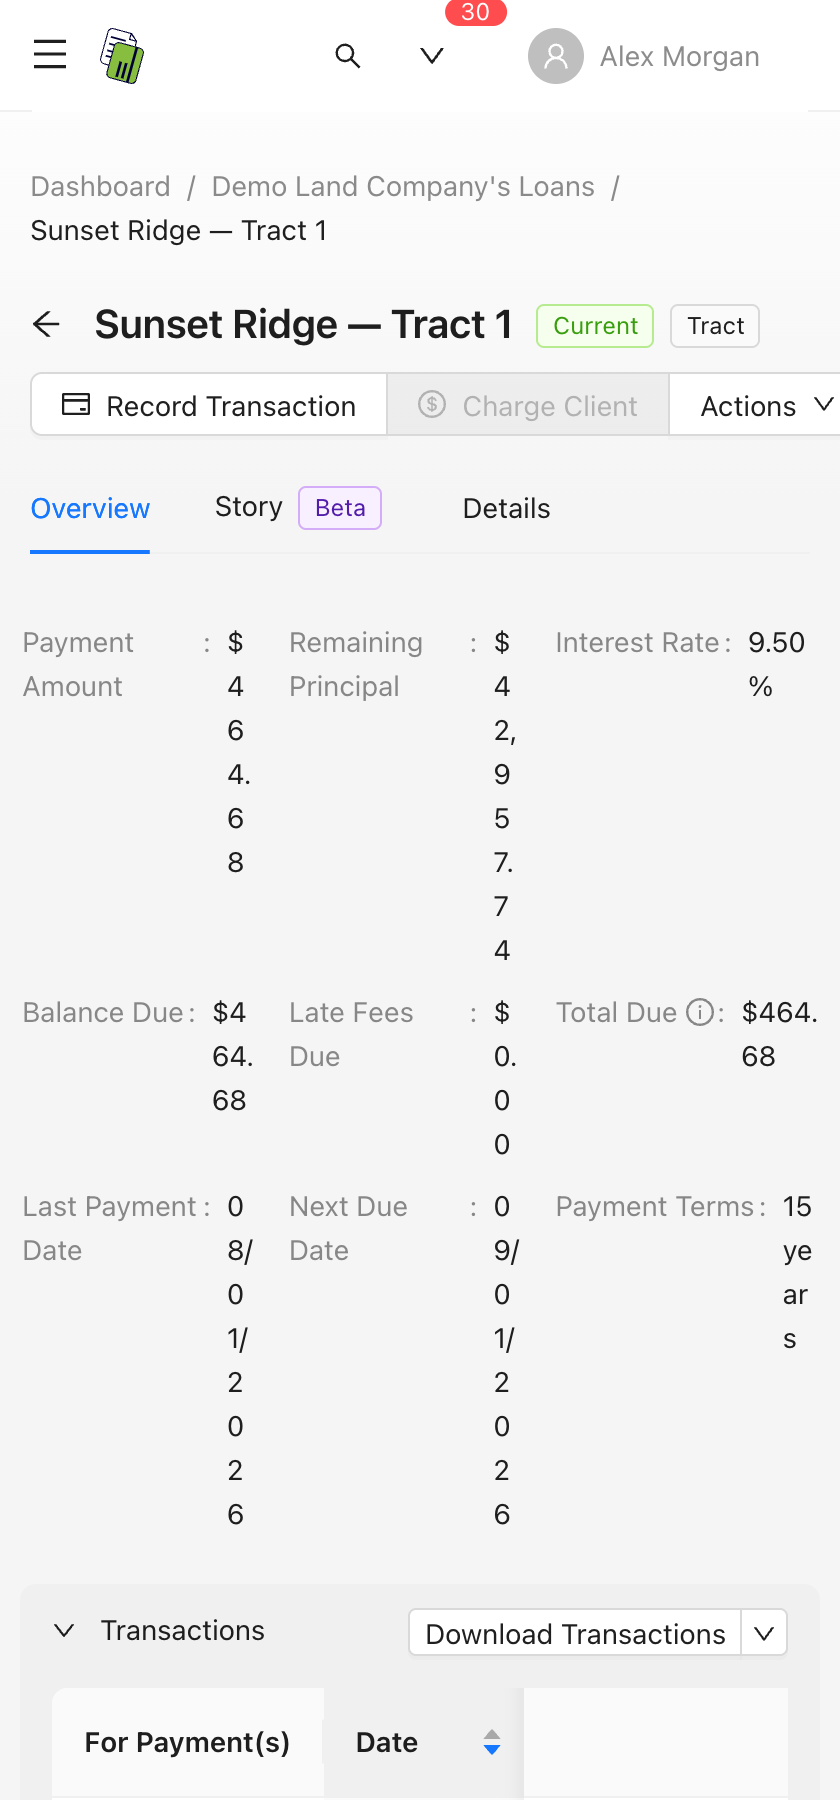
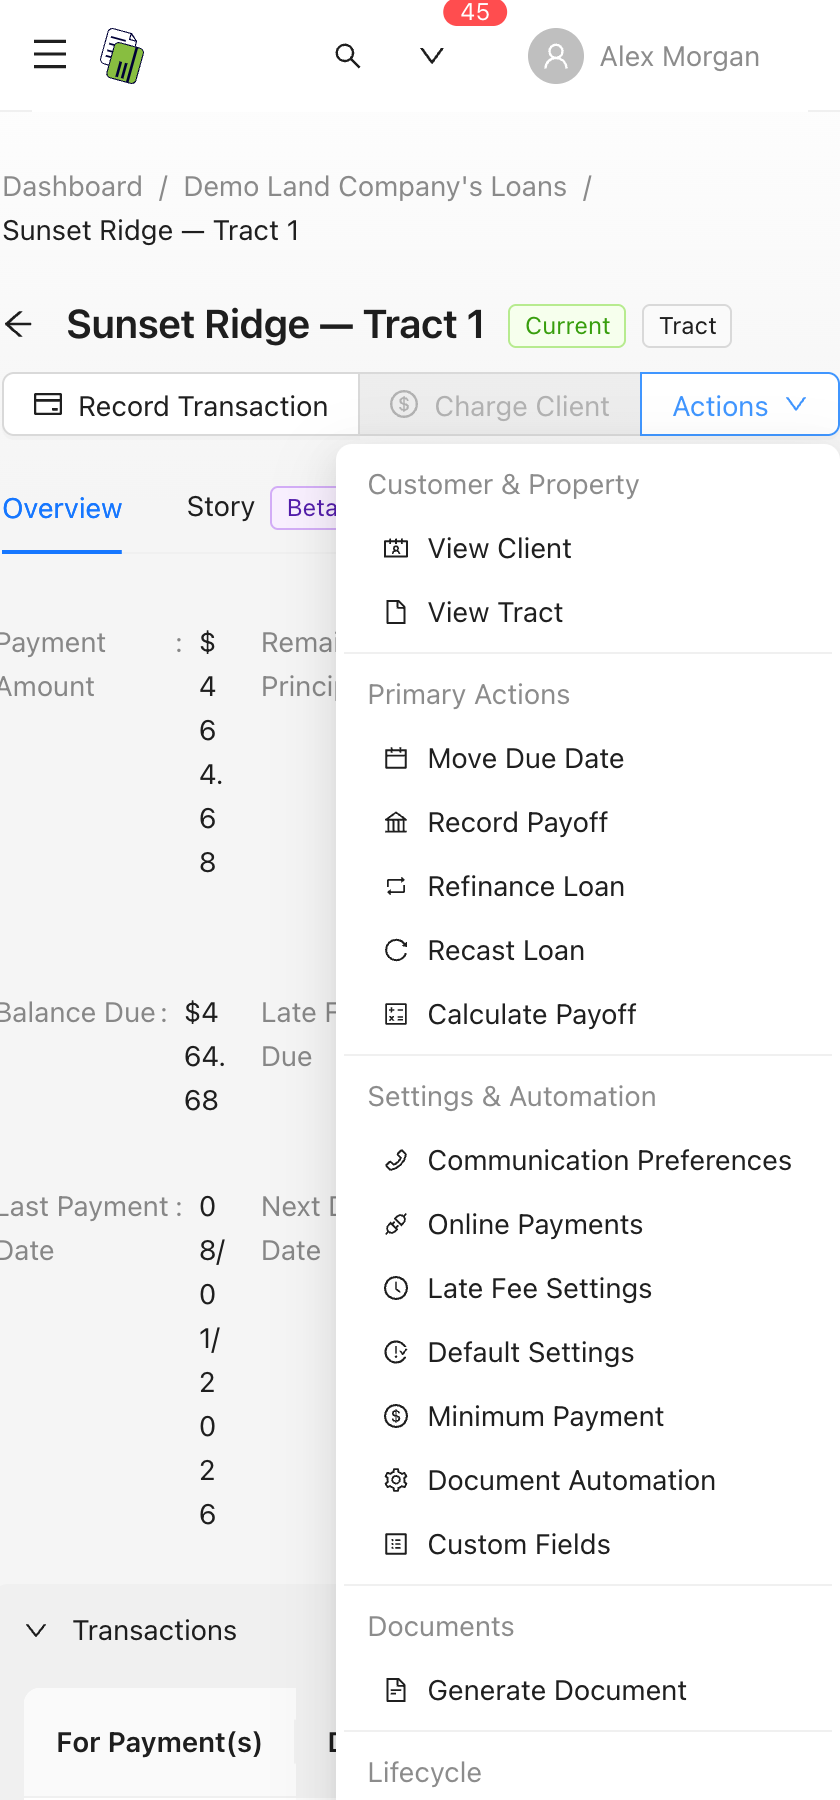
docs: capture unapplied payments, reports and delivery history
Adds the unapplied payments list, the reports library, the scheduled report
delivery history, and a loan page at phone width with its Actions menu open.

diff --git a/docs/app/guides/year-end-close.md b/docs/app/guides/year-end-close.md
@@ -52,7 +52,7 @@ Open **Unapplied Payments** from the main menu and work through anything still h
 
 When you apply a credit, you choose the date of the new transaction it funds, and that date decides which tax year the interest lands in. The date cannot be earlier than the day the funds were received. A single credit can fund several transactions, so a large one can be split across more than one payment.
 
-<!-- screenshot: the Unapplied Payments list showing several credits with their user-facing IDs, source loans, amounts, remaining balances, and a mix of Available and Partially Applied status tags -->
+![The Unapplied Payments list, showing each credit with its source, amount and remaining balance](/img/docs/app/guides/year-end-close/02.png)
 
 ### Finish reversals before the year closes
 
@@ -96,7 +96,7 @@ Go to **Reports**. Pick a report, choose **Run**, select the year, and the finis
 
 Two more are marked Beta and may change: the **Monthly Journal Entry Report** (monthly interest, principal, and late fee totals) and the **Portfolio Report** (current status of all tracts).
 
-<!-- screenshot: the Reports page on the Reports tab, table listing report names with descriptions, Last Ran At dates, and the actions menu open showing Run and Download -->
+![The Reports page, listing each report with its description and when it last ran](/img/docs/app/guides/year-end-close/03.png)
 
 The **Yearly 1098 Report** requires your password because it contains tax identifiers. One deliberate difference: this spreadsheet includes every qualifying loan that collected any interest during the year, while the 1098 INTs tab lists only borrowers at or above the $600 IRS reporting threshold. Use the spreadsheet for the whole picture and the tab for what will actually be filed.
 

diff --git a/docs/app/how-it-works/using-lendiom-on-your-phone.md b/docs/app/how-it-works/using-lendiom-on-your-phone.md
@@ -54,7 +54,7 @@ On a full-width screen the header carries the global search bar in the middle, t
 
 Open the dropdown and the bell item reads **Notifications**; tapping it opens the same three-tab panel you get on a desktop — Notifications, Reminders, and Messages, each with a count and a Clear action.
 
-<!-- screenshot: The Lendiom header at phone width with the Actions dropdown open, showing the disabled "Actions" label, a divider, the Notifications bell with its unread badge, and the Help link. -->
+![A loan page at phone width with the Actions dropdown open](/img/docs/app/how-it-works/using-lendiom-on-your-phone/01.png)
 
 ### Settings tabs reflow below 768px
 

diff --git a/docs/app/guides/scheduled-reports.md b/docs/app/guides/scheduled-reports.md
@@ -116,7 +116,7 @@ The **Delivery History** card lists the 50 most recent deliveries, newest first,
 
 Deleting a schedule stops future sends and leaves the history intact.
 
-<!-- screenshot: the Delivery History table with three rows — one green "sent", one orange "partial" with a red recipient tag, and one red "failed" — and the Resend link at the end of each row -->
+![The Delivery History table beneath the scheduled reports, recording each send](/img/docs/app/guides/scheduled-reports/02.png)
 
 ## How failures surface
 
